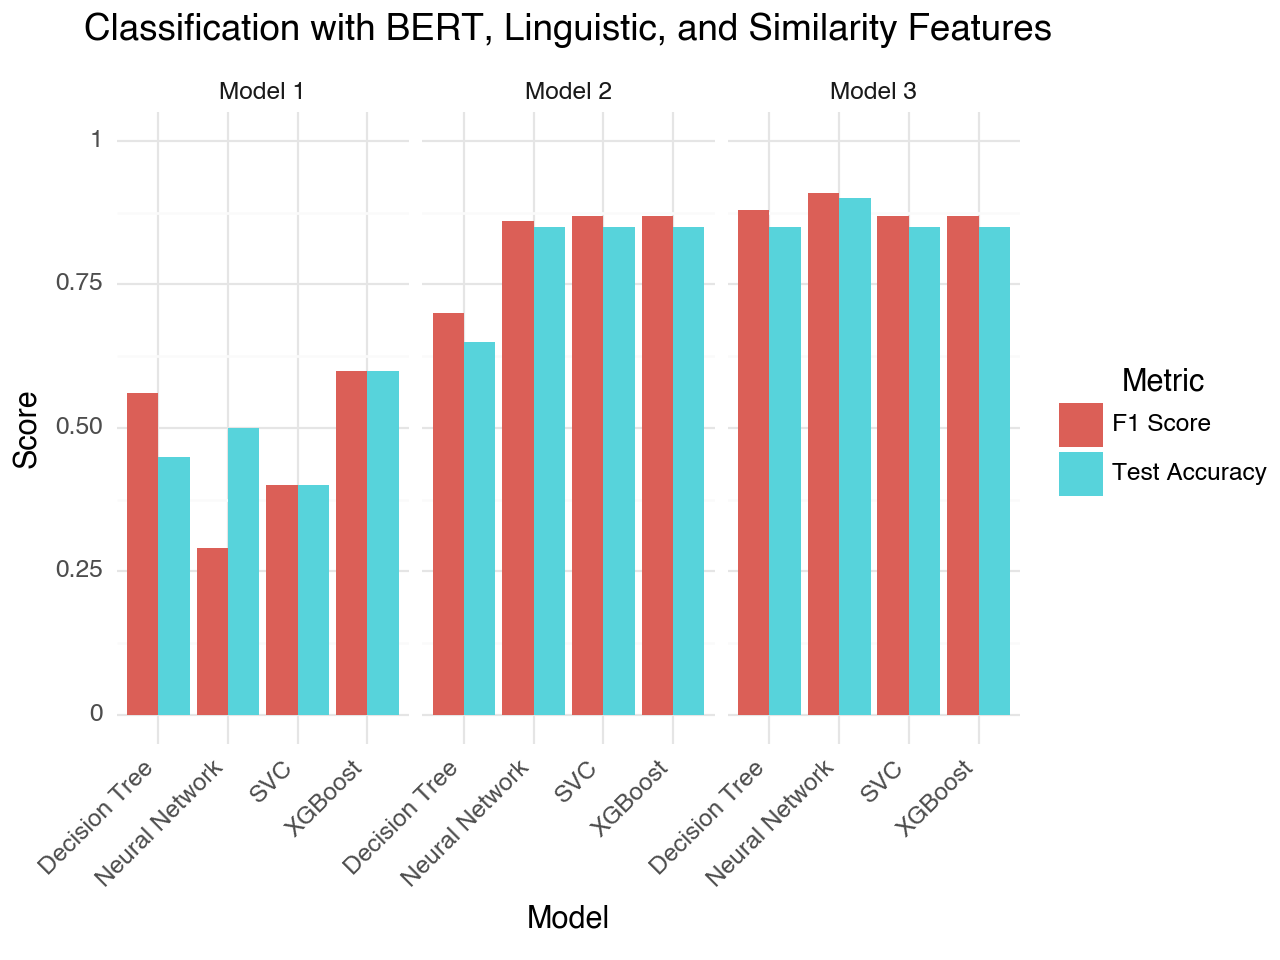
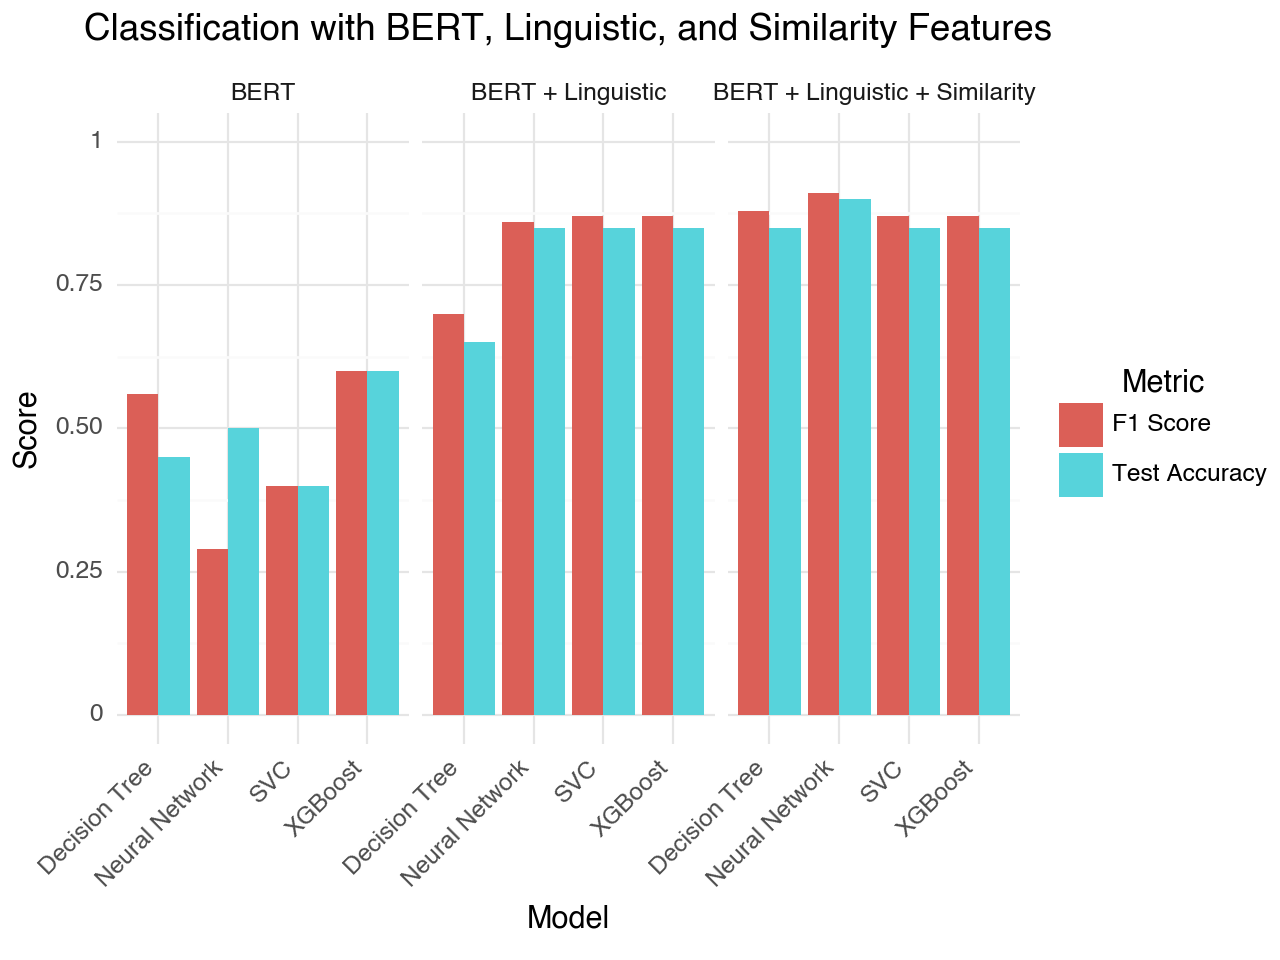
Updates from Overleaf

diff --git a/report/report.tex b/report/report.tex
@@ -193,20 +193,16 @@
 
 \newsection{Introduction}
 
-\tododhruv{Add intro citations}
-
-% \gtododhruv{Please add some citations to the introduction}
-
-As the distribution of news shifts towards social media, there is a rise in the dissemination of fake news. We define fake news as the creation of information presented as legitimate journalism that describes a fictitious event or fabricates details of an event in an attempt to mislead readers. This phenomenon became a major focal point in journalism during the 2016 US elections with political parties labelling many publications and articles as fake news. There are two huge issues with how this occurred in 2016:
+As the distribution of news shifts towards social media, there is a rise in the dissemination of fake news \cite{allcott2017social}. We define fake news as the creation of information presented as legitimate journalism that describes a fictitious event or fabricates details of an event in an attempt to mislead readers. This phenomenon became a major focal point in journalism during the 2016 US elections with political parties labelling many publications and articles as fake news. There are two huge issues with how this occurred in 2016:
 
 \begin{enumerate}
   \item Many prominent political figures highlighted any news they disagreed with as fake news. This led to the political isolation of the party, whereby any news that had portrayed them in a negative light had the potential to be dismissed as fake news This reduced the accountability of political figures in the US, a country where federal legislation has a sweeping impact across the country and the rest of the world.
-  \item There was a lack of fake news detection tools on social media and due to the polarisation of the media climate, it was extremely difficult for social media to regulate articles published on the platforms or remove factually incorrect articles posted or shared by politicians.
+  \item There was a lack of fake news detection tools on social media and due to the polarisation of the media climate, it was extremely difficult for social media to regulate articles published on the platforms or remove factually incorrect articles posted or shared by politicians and Americans \cite{bovet2019influence}.
 \end{enumerate}
 
 Since then, there have been many attempts to introduce ways to deal with these issues such as Politifact which manually reviews articles and social media posts for factual correctness. It posts its findings on its website and is easily accessible for people. Other similar websites exist but the reason manual fact-checking tools are not as prominent in spaces with high amounts of fake news is because it is impossible for manual review tools to scale to the number of news articles and journalistic social media posts published every day.
 
-There are also many automated fake news detection algorithms which rely on linguistic features of the text, comparisons between the title of the article and its content, the medium of transmission, and any suspicious activity linked with its engagement online. These tools have become more effective since COVID-19 and Twitter employs its own automated algorithms to automatically label articles about certain topics it chooses as fake news. However, these tools are known to be very unreliable as it is increasingly common for fake news to read the same way as real news articles and be shared by humans.
+There are also many automated fake news detection algorithms which rely on linguistic features of the text, comparisons between the title of the article and its content, the medium of transmission, and any suspicious activity linked with its engagement online. These tools have become more effective since COVID-19 and Twitter employs its own automated algorithms to automatically label articles about certain topics it chooses as fake news \cite{twitterfakenewsdetection}. However, these tools are known to be very unreliable as it is increasingly common for fake news to read the same way as real news articles and be shared by humans.
 
 Therefore, in order for fake news detection to become more widespread and effective in combating fake news, there are a few different criteria it must fulfil:
 
@@ -217,9 +213,9 @@ Therefore, in order for fake news detection to become more widespread and effect
   \item The dataset used to train and assess the algorithms must contain real and fake articles that are written in the same style so that it is not apparent simply from the way an article is written whether it is real or fake.
 \end{enumerate}
 
-Our approach improves upon existing approaches\gtododhruv{Specify which existing approaches or references.} and aims to combine the above criteria to analyse both the content and style of articles and make a significantly more informed decision on its classification. The model is restricted to a binary classification - it outputs either real or fake rather than giving a confidence metric of an article's legitimacy. This is done as the aim is for the tool be easily adopted and focusing on the simplicity of the input and output is a priority.
+Our approach improves upon existing approaches that focus on the first and second criteria, or the third one. Most models rarely focus on both the second and third criteria and our aims to combine those to analyse both the content and style of articles. The model then makes a significantly more informed decision on its classification. The model is restricted to a binary classification - it outputs either real or fake rather than giving a confidence metric of an article's legitimacy. This is done as the aim is for the tool be easily adopted and focusing on the simplicity of the input and output is a priority.
 
-We compiled a list of commonly used linguistic features for fake news detection. Multiple different pairings of features were formed and analysis was conducted to determine the most effective linguistic features for the task. This takes existing research into fake news detection and puts our model in line with current methods. A new feature - similarity\gtododhruv{Clearly define what you mean by 'similarity'. Is it semantic similarity, structural similarity, or some other kind?} - is used to achieve the third criterion above. At a high level, this feature compares the queried article to other articles on Google news which are at the top of Google's searches. As these have high PageRank scores, the model can be confident that they are real articles and it compares the similarity of the content between the queries article and each of these top searched articles. This is done as a way for the model to infer context before making a judgement on an article's legitimacy. This approach brings out model in line with the way humans manually fact-check articles which usually involves finding known trustworthy sources and comparing the content between the articles to determine whether the queried one is consistent with the trustworthy ones.
+We compiled a list of commonly used linguistic features for fake news detection. Multiple different pairings of features were formed and analysis was conducted to determine the most effective linguistic features for the task. This takes existing research into fake news detection and puts our model in line with current methods. A new feature - lexicographical similarity - is used to achieve the third criterion above. At a high level, this feature compares the queried article to other articles on Google news which are at the top of Google's searches and applies various algorithms based on the individual words shared between the articles. As these Google news articles have high PageRank scores, the model can be confident that they are real articles and it compares the similarity of the content between the queries article and each of these top searched articles. This is done as a way for the model to infer context before making a judgement on an article's legitimacy. This approach brings out model in line with the way humans manually fact-check articles which usually involves finding known trustworthy sources and comparing the content between the articles to determine whether the queried one is consistent with the trustworthy ones.
 
 Through this research, we have analysed and determined the most effective linguistic features for fake news detection and shown that the use of similarity as a metric is effective in building upon these current metrics to increase accuracy. We have also compared the use of the similarity metric with different machine learning classifiers and discovered that it greatly increases the accuracy of less complex machine learning methods and brings their performance in line with complex models.
 
@@ -229,7 +225,7 @@ Through this research, we have analysed and determined the most effective lingui
 
 \newsubsection{Similarity Comparison using Titles}
 Methods of similarity comparison have been attempted in a few fake news detection papers. Antoun et al. \cite{antoun2020state}
-presents an analysis of various fake news detection methods including an automated model winning an international competition on this topic. This model used the title of the queried article to search Google for similar articles and compared the word embeddings for the title against those of the top 5 searched articles. It used cosine similarity only and tested the similarity scores along with other features such as lexicon based features. Many classifiers were tested including SVM, XGBoost and random forest classifiers. This resulted in an effective model that was moderately effective\gtododhruv{It would be helpful to provide specific metrics or results to support this statement.} for fake news classification.
+presents an analysis of various fake news detection methods including an automated model winning an international competition on this topic. This model used the title of the queried article to search Google for similar articles and compared the word embeddings for the title against those of the top 5 searched articles. It used cosine similarity only and tested the similarity scores along with other features such as lexicon based features. Many classifiers were tested including SVM, XGBoost and random forest classifiers. This resulted in a model that was effective in detecting articles where there was a lot of emphasis on the title for fake news classification.
 
 \newsubsection{Similarity Comparison using Fixed News Database}
 A different approach to similarity detection is used in Alsuliman et al. \cite{alsuliman2022social} where similarity scores are generated between the queried article and every article in a database of news articles. This method takes the highest similarity score for each queried article and then uses a greedy approach to set a similarity score threshold for real articles that maximises the overall accuracy. This paper uses three well-studied techniques for similarity score calculation - cosine similarity, word appearance and TF-IDF. It explains how these metrics are used within this problem and contrasts the results of each. The most significant limitation of this paper is that the similarity articles that were selected were rarely relevant to the topic of the queried article.
@@ -471,9 +467,9 @@ To find the best hyperparameters, we perform 5-Fold cross validation across 80\%
 
 \newsubsection{Model --- Neural networks}
 
-The second approach taken for classification was using deep learning as we hypothesised that it would be able to find more complex relationships between the large variety of BERT, linguistic, and similarity features. Initially both convolutional neural networks and simple feedforward\gtododhruv{Use consistent terms. The term "feedforward" is sometimes used interchangeably with "fully connected."} layers were considered. After analysing the features and noting that they did not have any spacial relation, only the second approach was considered.
+The second approach taken for classification was using deep learning as we hypothesised that it would be able to find more complex relationships between the large variety of BERT, linguistic, and similarity features. Initially both convolutional neural networks and simple fully connected layers were considered. After analysing the features and noting that they did not have any spacial relation, only the second approach was considered.
 
-We used a very simple structure with 4 hidden layers using the ReLU activation function and an output layer with one neuron and the sigmoid activation function as the task required binary classification. We kept the structure simple due to the small size of the dataset and to prevent overfitting. Additionally, a dropout of 0.2 was added to further prevent overfitting. The dataset was split in a 60:20:20 train, validation, test split to allow for hyperparameter training and binary-crossentropy loss was used. Multiple optimisers were used during training, however, based on the validation accuracy we decided to use Adam\gtododhruv{Parameters of Adam and lr is missing} as the optimiser.
+We used a very simple structure with 4 hidden layers using the ReLU activation function and an output layer with one neuron and the sigmoid activation function as the task required binary classification. We kept the structure simple due to the small size of the dataset and to prevent overfitting. Additionally, a dropout of 0.2 was added to further prevent overfitting. The dataset was split in a 60:20:20 train, validation, test split to allow for hyperparameter training and binary-crossentropy loss was used. Multiple optimisers were used during training, however, based on the validation accuracy we decided to use Adam as the optimiser with default parameters but a modified learning rate of 0.0001.
 
 \newsection{Experimental setup}\label{section:experimental-setup}
 % This section explores the dataset, performs data analysis, analyses the results of the feature extraction process as applied on the dataset, normalisation results, and the parameter choice for our machine learning models.
@@ -627,8 +623,6 @@ For our analysis, we will be comparing the top 3 performing machine learning met
   \caption{Accuracy and F1-score metrics for top performing models across different features}
   \label{accuracy_graph}
 \end{figure}
-
-\tododhruv{I changed the comment from the tutor to remove "Model 1". Could you fix this graph so the headings are BERT, BERT+Non-Latent, BERT + Non-Latent + Similarity. See my ML results table.}
 
 Figure \ref{accuracy_graph} presents the classification results. As hypothesised from dataset analysis with PCA, only using BERT does not perform well. With a testing accuracy around 50\% for each classifier, it is simply random guessing on the data. This is used as the baseline for our analysis as it is does incorporate any of our novel contribution to this knowledge domain.
 
@@ -793,7 +787,7 @@ In the future research could be done to provide an automated API for scraping wh
     \midrule
     Jim & \shortstack{Proprocessing \& tokenization\\Similarity model article scraping\\Machine learning models}\\
     \midrule
-    Dhruv & \\
+    Dhruv & \shortstack{Summary Extraction (LDA) \\ PCA, KMeans \\ Deep learning classification models \\ Related works research and results analysis}\\
     \midrule
     Duke & \shortstack{article vectorisation \\ similarity metric calculation \& selection \\ similarity comparison result \\ non-latent features \\ EDA}\\
     \bottomrule
@@ -810,7 +804,9 @@ In the report Jim contributed to the Sections~\ref{section:preprocessing}, \ref{
 
 \subsection{Dhruv}
 
-\tododhruv{$\sim$1pg detailing individual contributions}
+Dhruv contributed to the project particularly in researching and developing the pipeline, the keyword extraction algorithm, and neural network classification. At the start of the project, Dhruv contributed to researching papers with relevant contributions to ours, using these papers to develop a pipeline based on successful past research and integrating our novel features into this pipeline. Towards the start of development, Dhruv created a proof of concept for the similarity metric and used existing Python libraries to implement keyword extraction. Towards the end of the project, Dhruv implemented PCA and KMeans analysis, neural network classification and experimented with Embeddings and other techniques to improve the model.
+
+In the project proposal, Dhruv contributed equally with the team. In the literature review, Dhruv focused on the summary of the relevant research conducted when developing the pipeline - specifically the novelty and improvements that could be made on existing lexicographical similarity features in fake news detection. In the project demo, Dhruv contributed to the introduction, dataset analysis, evaluation of neural network and machine learning models, comparison to past research and conclusion. In the report, Dhruv contributed to Section 1, 2.1-2.3, 3.5, 3.7, 4.2, 5.1.3, 5.2.
 
 \subsection{Duke}
 Duke contributed to the project particularly in the sections of non-latent features, and similarity model (article vectorisation, similarity metric calculation, similarity metric selection, comparison results) and the EDA (exploratory data analysis) notebook, and the associated code and plots. At the start of the project, Duke contributed to the similarity model (article vectorisation, similarity metric calculation). Towards the end of the project, Duke contributed to the similarity model (similarity metric selection, comparison results), and the methodology and results for non-latent feature extraction and analysis, as well as the EDA.
